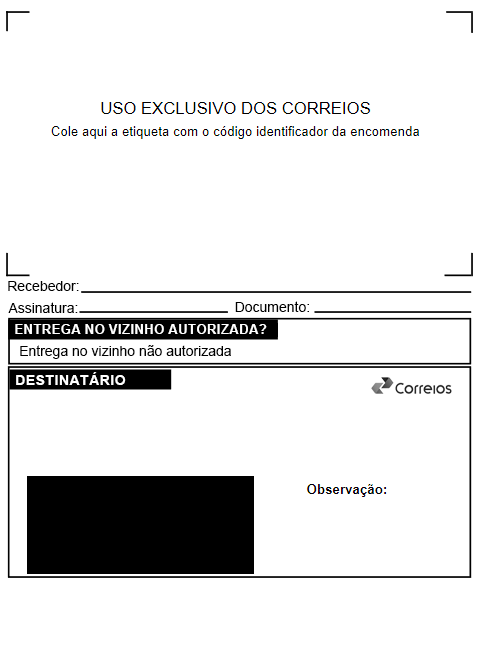
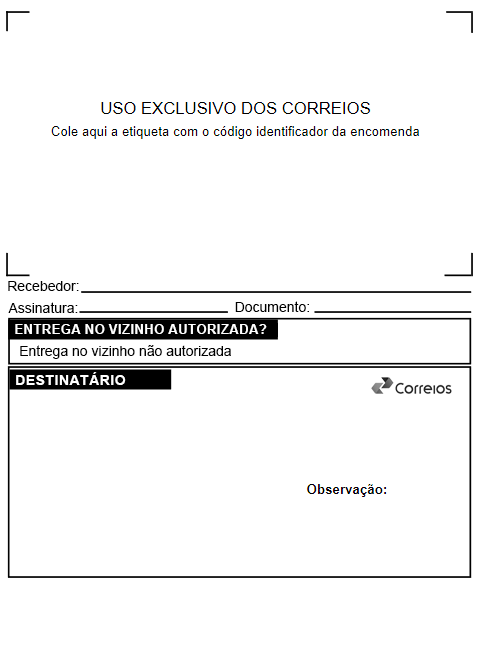
corrigido codigo de barras

Changed region(s): [[0.0585, 0.6897, 0.5553, 0.8696]]

diff --git a/src/Generator/Etiqueta.tsx b/src/Generator/Etiqueta.tsx
@@ -10,7 +10,7 @@ export default function Etiqueta({
   item
 }: {item: Destinatario}) {
 
-  const hash = item['Nome Completo'] + item.CEP;
+  const hash = item['Nome completo'] + item.CEP;
 
   const generateId= (str: string) => {
     return str.replace(/[^\w\s]/gi, '').replace(/ /g, '');
@@ -18,14 +18,14 @@ export default function Etiqueta({
 
   useEffect(() => {
     if(document.getElementById(generateId(hash))) {
-      JsBarcode(`#${generateId(hash)}`, item.CEP, {displayValue : false});
+      JsBarcode(`#${generateId(hash)}`, item.CEP.replace('-', ''), {displayValue : false, width: 3});
     }
   });
 
   return (
     <div className='tag'>
       <div className='dist'>
-        <p>{item['Nome Completo'].toLowerCase()}</p>
+        <p>{item['Nome completo'].toLowerCase()}</p>
         <p className='street'>{item.Rua}, {item['Número']}, {item.Complemento}</p>
         <p>{item.Bairro}</p>
         <div className='d-flex'>

diff --git a/src/interface/Destinatario.ts b/src/interface/Destinatario.ts
@@ -3,7 +3,7 @@ export interface Destinatario {
   CEP: string;
   Cidade: string;
   Complemento: string;
-  'Nome Completo': string;
+  'Nome completo': string;
   'Número': string;
   Rua: string;
   Estado: string; //UF

diff --git a/src/index.scss b/src/index.scss
@@ -91,7 +91,7 @@ p {
 .bar-code {
   position: absolute;
   top: calc(100% - 195px);
-  left: 7px;
+  left: 10px;
 
   svg {
     height: 103.5px;
